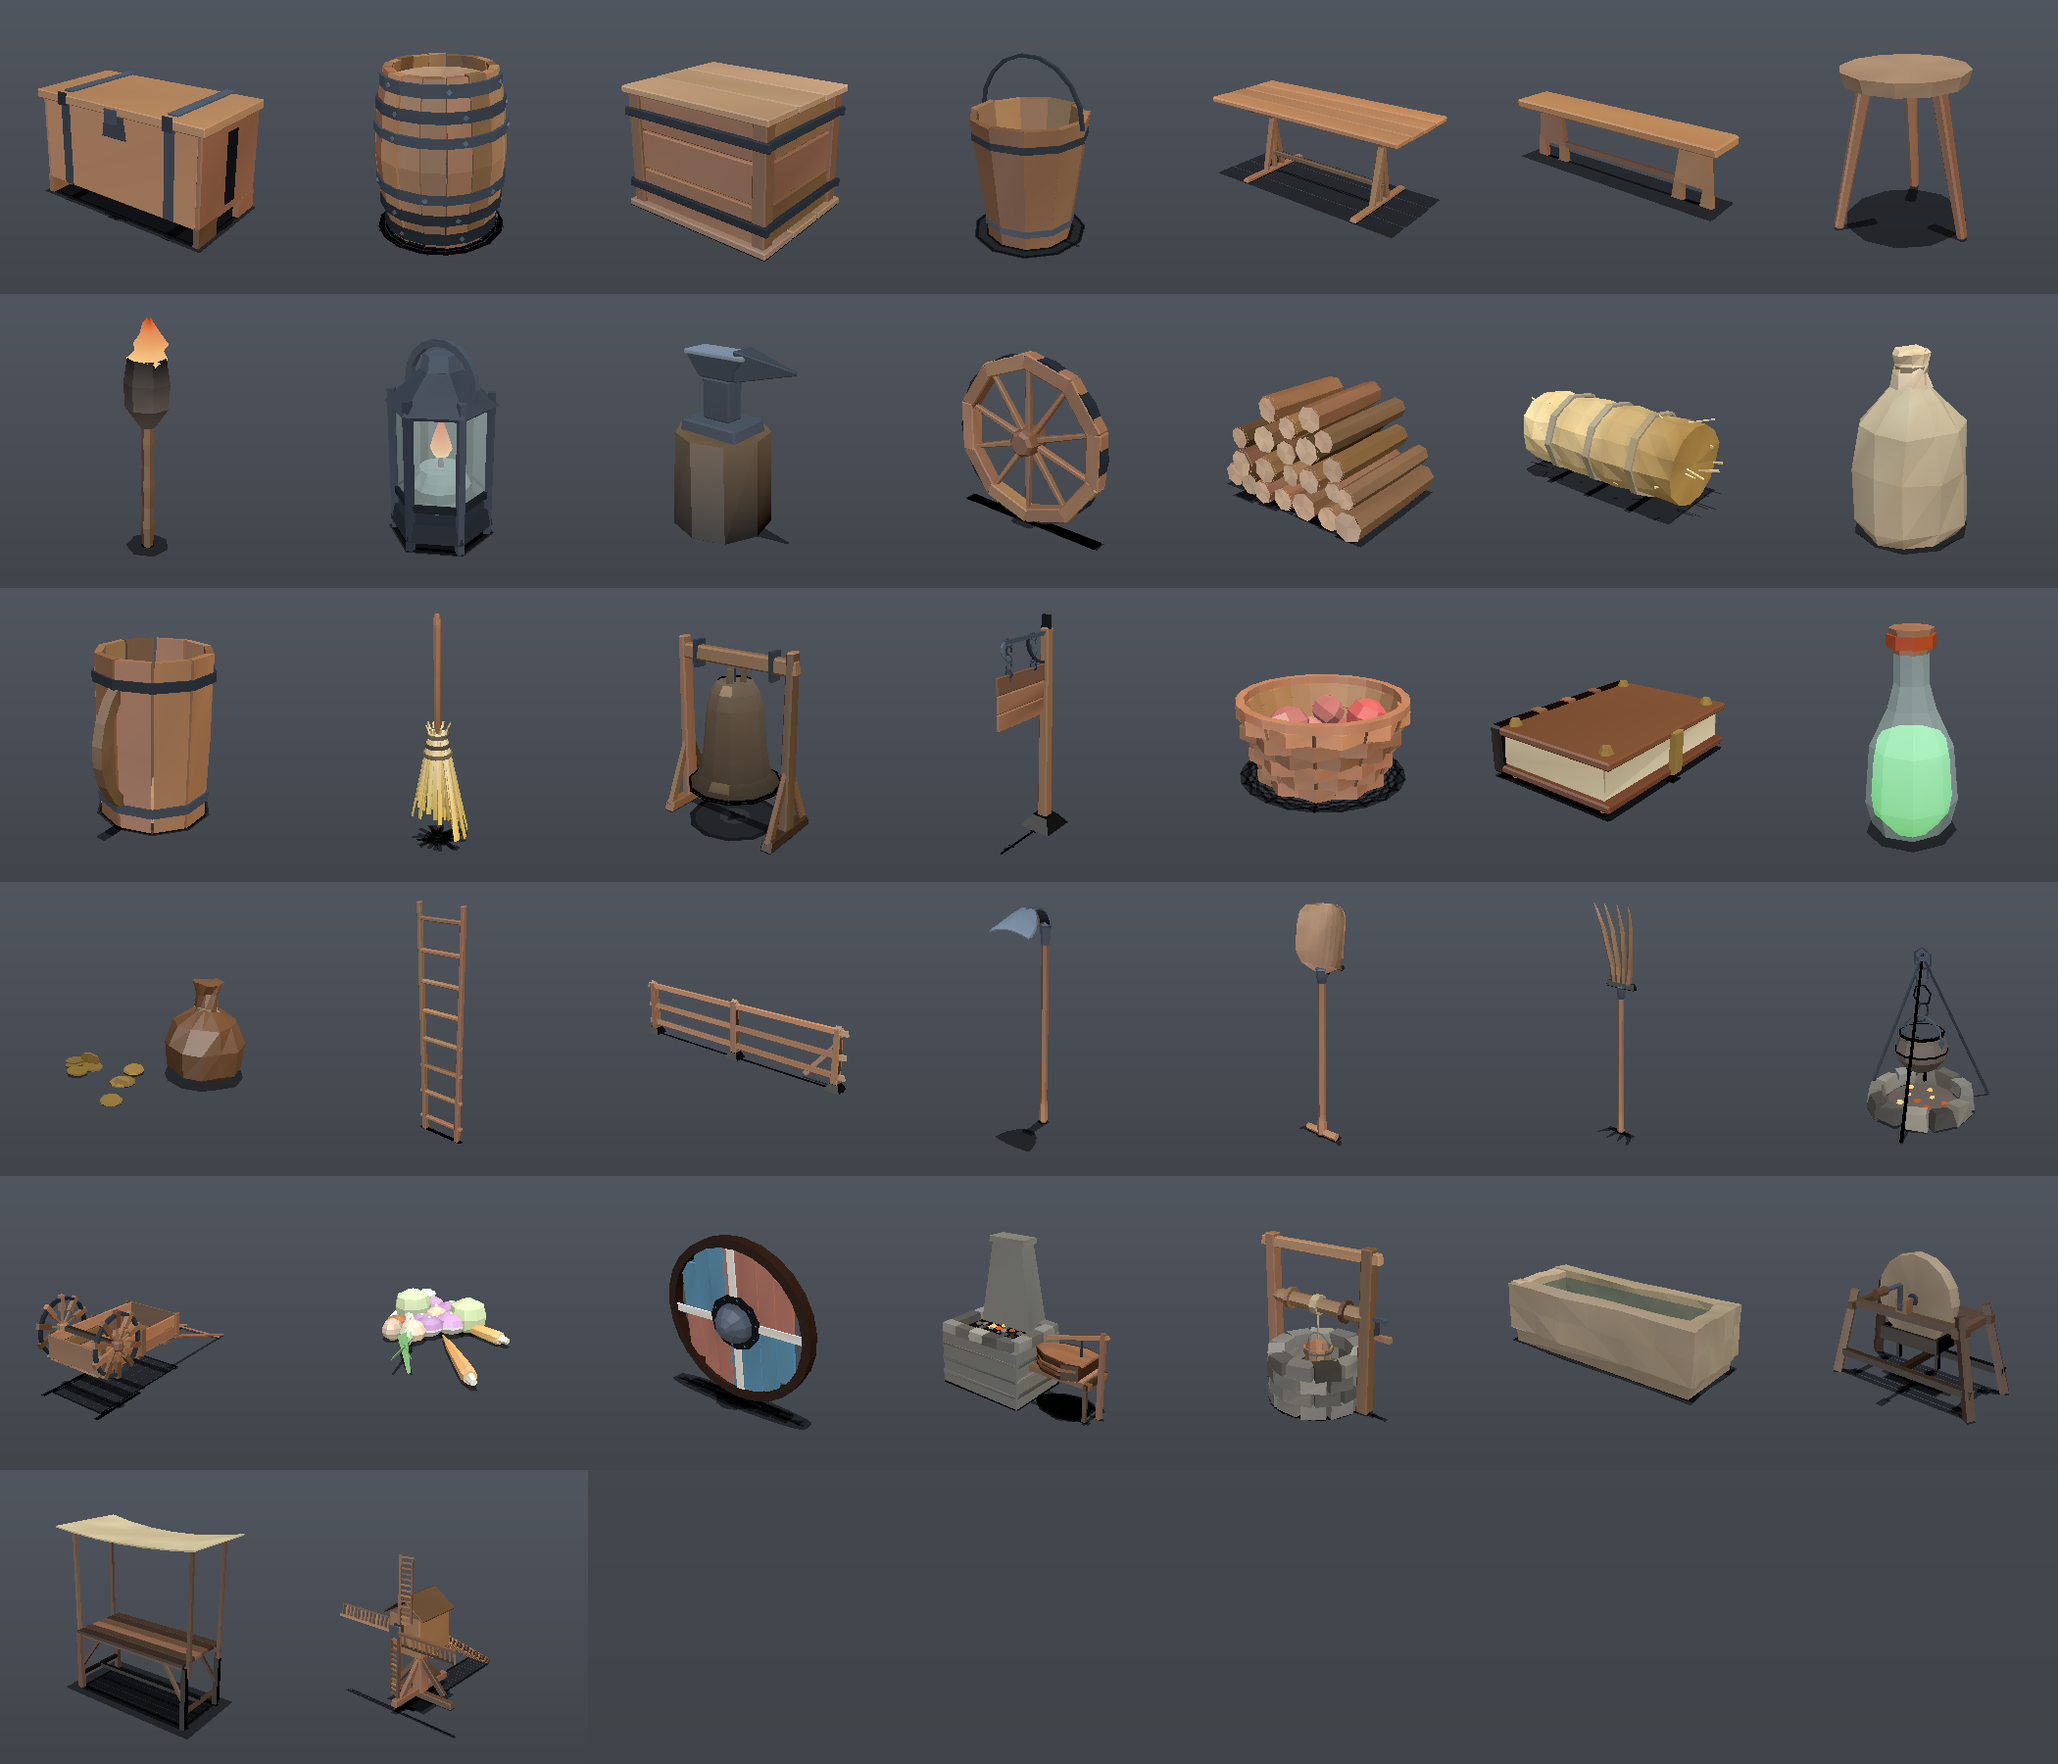
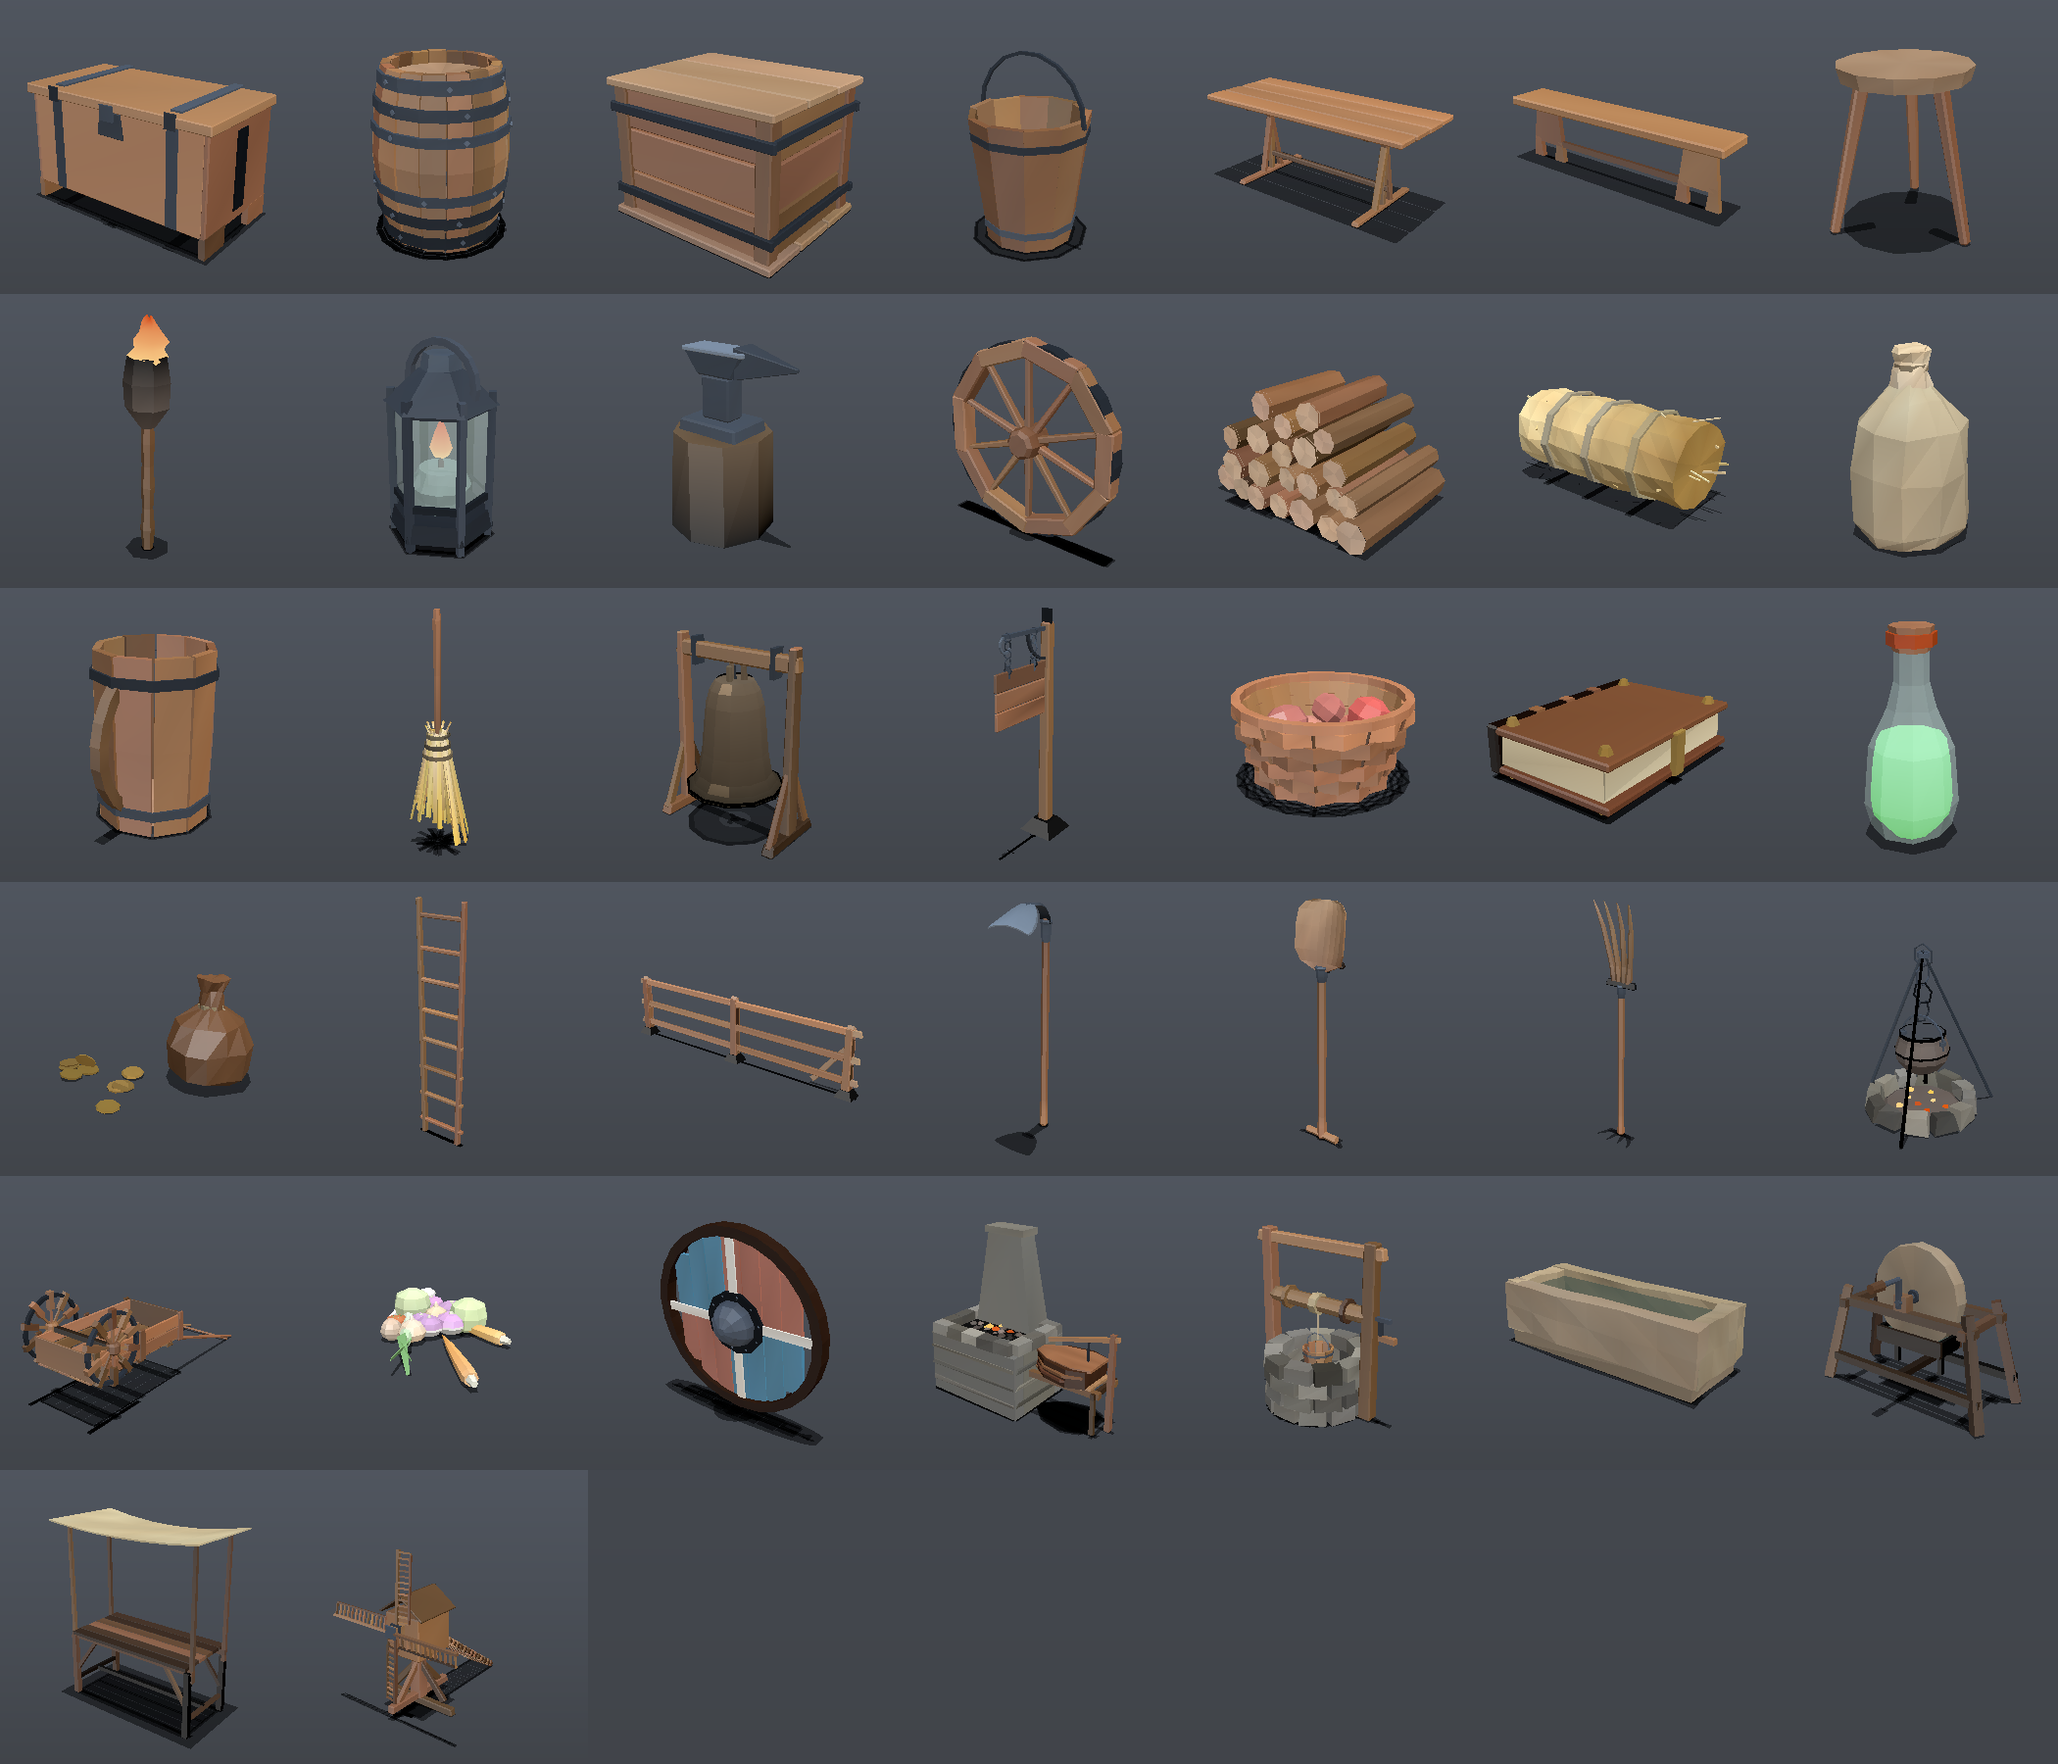
Give the published page a card
A link to the site showed a URL and a blank square. It now carries a title, a
description, a canonical URL, an icon and a full set of OpenGraph and Twitter
tags, so a page nobody has opened yet arrives as something you can look at.

Two of those tags have to be ABSOLUTE and it is not a style question: a
scraper fetching the page has no base to resolve `/cover.png` against and
drops it silently. `build-site.ts` now copies the images into the output as
well, because an `og:image` pointing at this host has to have the file ON this
host — a card that 404s shows nothing, and nothing about the page itself looks
wrong while it happens.

The cover is a real 1200x630 render rather than a crop of a square one, which
took a change to the renderer worth having anyway. `newFrame` and
`frameCamera` both took a width and a height already; only `renderOne` was
insisting they be equal. And with a non-square frame the old camera fit showed
its flaw: it fitted the bounding SPHERE, which is one number and wrong for
anything not roughly round. The kit scene is wide and flat, so its sphere is
far taller than the scene is, and fitting that into the vertical field left the
models in a band across the middle with empty air above and below — most of a
1.91:1 card. It now fits the BOX, iteratively, because perspective is not
linear in distance: place the camera, project the eight corners, move by how
far the worst one lands past the edge. Two passes is inside a pixel.
[…]

diff --git a/scripts/render.ts b/scripts/render.ts
@@ -340,13 +340,51 @@ function frameCamera(root: Object3D, width: number, height: number): { camera: P
   const box = new Box3().setFromObject(root)
   const sphere = box.getBoundingSphere(new Sphere())
   const camera = new PerspectiveCamera(32, width / height, 0.01, 100)
-  const distance = (sphere.radius / Math.sin((camera.fov * Math.PI) / 360)) * 1.12
   // Three-quarter view: the one angle that shows two faces at once. Looking
   // straight on hides depth completely.
   const direction = new Vector3(0.78, 0.5, 1).normalize()
+
+  /**
+   * Fit the BOX to the frame, not the sphere to the frame's short side.
+   *
+   * A sphere fit is one number and it is wrong for anything that is not
+   * roughly round. The whole-kit scene is wide and flat: its bounding sphere
+   * is set by the horizontal extent and is far taller than the scene is, so
+   * fitting that sphere into the vertical field left the models occupying a
+   * band across the middle with empty air above and below. On a 1.91:1 social
+   * card it was most of the picture.
+   *
+   * The box fit is iterative because perspective is not linear in distance:
+   * put the camera somewhere, project the eight corners, see how far past the
+   * frame edge the worst one lands, and move by that ratio. Two passes is
+   * inside a pixel at these sizes, and it settles on whichever axis is
+   * actually tight rather than assuming it is the vertical one.
+   */
+  let distance = (sphere.radius / Math.sin((camera.fov * Math.PI) / 360)) * 1.12
+  const corner = new Vector3()
+  for (let pass = 0; pass < 3; pass += 1) {
+    camera.position.copy(sphere.center).addScaledVector(direction, distance)
+    camera.lookAt(sphere.center)
+    camera.updateMatrixWorld(true)
+    camera.updateProjectionMatrix()
+    let worst = 0
+    for (let i = 0; i < 8; i += 1) {
+      corner.set(
+        i & 1 ? box.max.x : box.min.x,
+        i & 2 ? box.max.y : box.min.y,
+        i & 4 ? box.max.z : box.min.z,
+      ).project(camera)
+      worst = Math.max(worst, Math.abs(corner.x), Math.abs(corner.y))
+    }
+    if (worst <= 0) break
+    // 0.9 of the frame, so nothing sits on the edge and a shadow has room.
+    distance *= worst / 0.9
+  }
+
   camera.position.copy(sphere.center).addScaledVector(direction, distance)
   camera.lookAt(sphere.center)
   camera.updateMatrixWorld(true)
+  camera.updateProjectionMatrix()
   return { camera, floor: box.min.y }
 }
 
@@ -356,6 +394,15 @@ function renderOne(
   patch?: Record<string, number>,
   /** Pre-rotation of the model around the Y axis (radians). For turntables. */
   spin = 0,
+  /**
+   * Frame height, when it is not the width.
+   *
+   * Everything here is square because a contact sheet is a grid, but a social
+   * card is 1.91:1 and cropping a square down to it either loses the model or
+   * leaves it small. `newFrame` and `frameCamera` both took a width and a
+   * height already; only this function was insisting they be the same.
+   */
+  tall = size,
 ): Frame {
   const entry = CATALOG[id]
   if (!entry) throw new Error(`not in catalog: ${id}`)
@@ -368,8 +415,8 @@ function renderOne(
   // stay in a fixed direction, so turntable frames compare one to one.
   built.root.rotation.y = spin
   const triangles = collect(built.root)
-  const frame = newFrame(size, size)
-  const { camera, floor } = frameCamera(built.root, size, size)
+  const frame = newFrame(size, tall)
+  const { camera, floor } = frameCamera(built.root, size, tall)
   contactShadow(frame, camera, triangles, floor)
   raster(frame, camera, triangles)
   built.dispose()
@@ -387,6 +434,7 @@ const flag = (name: string): string | undefined => {
 const outDir = flag('out') ?? 'renders'
 const one = flag('one')
 const size = Number(flag('size') ?? (one ? 720 : 300))
+const tall = Number(flag('height') ?? size)
 
 const only = flag('ids')?.split(',')
 
@@ -453,7 +501,7 @@ const ids = one ? [one]
 const frames = new Map<string, Frame>()
 
 for (const id of ids) {
-  const frame = renderOne(id, size)
+  const frame = renderOne(id, size, undefined, 0, tall)
   frames.set(id, frame)
   await writeFile(`${outDir}/${id}.png`, encodePng(frame))
   console.log(`  ${id}`)

diff --git a/viewer.html b/viewer.html
@@ -3,7 +3,51 @@
   <head>
     <meta charset="UTF-8" />
     <meta name="viewport" content="width=device-width, initial-scale=1.0" />
-    <title>@medieval-kit · procedural model viewer</title>
+    <title>@medieval-kit · procedural lowpoly medieval models</title>
+    <meta
+      name="description"
+      content="37 lowpoly medieval models generated from TypeScript you install and own — barrels, tools, a forge, a windmill. 30,390 triangles for the whole kit."
+    />
+    <link rel="canonical" href="https://medieval.crt.fyi/" />
+    <link rel="icon" type="image/png" href="/icon.png" />
+    <meta name="theme-color" content="#0b0e12" />
+
+    <!--
+      The card. Every one of these is here because something reads it and shows
+      the page to somebody who has not opened it yet, and the default without
+      them is the URL and a blank square.
+
+      The image is ABSOLUTE, which is not a style choice: a scraper fetching
+      this page has no base to resolve "/cover.png" against and will drop it.
+      Same for the URL. And `og:image` is a real 1200x630 render of the whole
+      kit rather than a crop of a square one — the renderer will produce any
+      aspect now, and a card is 1.91:1, so a square image loses either the
+      windmill off the top or the props off the bottom.
+    -->
+    <meta property="og:type" content="website" />
+    <meta property="og:site_name" content="medieval-kit" />
+    <meta property="og:url" content="https://medieval.crt.fyi/" />
+    <meta property="og:title" content="@medieval-kit · procedural lowpoly medieval models" />
+    <meta
+      property="og:description"
+      content="37 lowpoly medieval models generated from TypeScript you install and own — barrels, tools, a forge, a windmill. 30,390 triangles for the whole kit."
+    />
+    <meta property="og:image" content="https://medieval.crt.fyi/cover.png" />
+    <meta property="og:image:type" content="image/png" />
+    <meta property="og:image:width" content="1200" />
+    <meta property="og:image:height" content="630" />
+    <meta
+      property="og:image:alt"
+      content="37 lowpoly medieval models arranged in one scene: a windmill and an oak-framed market stall behind, a forge, a grindstone and a cart wheel in the middle, barrels, crates and hand tools at the front."
+    />
+
+    <meta name="twitter:card" content="summary_large_image" />
+    <meta name="twitter:title" content="@medieval-kit · procedural lowpoly medieval models" />
+    <meta
+      name="twitter:description"
+      content="37 lowpoly medieval models generated from TypeScript you install and own. Open the viewer and turn any of them over."
+    />
+    <meta name="twitter:image" content="https://medieval.crt.fyi/cover.png" />
     <link rel="preconnect" href="https://fonts.googleapis.com" />
     <link rel="preconnect" href="https://fonts.gstatic.com" crossorigin />
     <link

diff --git a/scripts/check-docs.ts b/scripts/check-docs.ts
@@ -64,7 +64,21 @@ const WORDS = [
   'seventeen', 'eighteen', 'nineteen', 'twenty',
 ]
 
-for (const file of ['README.md', 'REFERENCE.md', 'my-registry/README.md']) {
+/**
+ * `viewer.html` is in this list because it is the published page.
+ *
+ * Its meta description is what a search result and a shared link show, and it
+ * quotes the model count and the triangle total — which is the same sentence
+ * that went stale three times in the READMEs before this check existed. A
+ * number in a card is worse than a number in a README: nobody reading the card
+ * can see the kit to know it is wrong.
+ *
+ * It carries no table, so the every-model-listed rule does not apply to it,
+ * any more than it does to the root README.
+ */
+const CARRIES_A_TABLE = new Set(['REFERENCE.md', 'my-registry/README.md'])
+
+for (const file of ['README.md', 'REFERENCE.md', 'my-registry/README.md', 'viewer.html']) {
   const text = readFileSync(file, 'utf8')
   console.log(file)
 
@@ -74,7 +88,7 @@ for (const file of ['README.md', 'REFERENCE.md', 'my-registry/README.md']) {
   // Every model has to appear by id, or the document is describing a smaller
   // kit than the one it ships with. The registry README and the reference each
   // carry a generated table; the root README does not, so it is exempt.
-  if (file !== 'README.md') {
+  if (CARRIES_A_TABLE.has(file)) {
     const missing = ids.filter((id) => !text.includes(`\`${id}\``))
     expect(`${file}: every model listed`, missing.length === 0, missing.join(', '))
   }

diff --git a/scripts/build-site.ts b/scripts/build-site.ts
@@ -41,6 +41,19 @@ await writeFile(`${dist}/_headers`, `/viewer-*
   Cache-Control: public, max-age=0, must-revalidate
 `, 'utf8')
 
+/**
+ * The images the page's own meta tags point at.
+ *
+ * `og:image` is an absolute URL to this host, so the file has to BE on this
+ * host: a card that 404s is a card that shows nothing, and nothing about the
+ * page itself would look wrong. `kit.png` and `models.png` come too, because
+ * the published README links to them and a reader of that page should not
+ * depend on a private repository being readable.
+ */
+for (const image of ['cover.png', 'icon.png', 'kit.png', 'models.png']) {
+  await copyFile(`media/${image}`, `${dist}/${image}`)
+}
+
 // Listed rather than named. The bundles are hashed, so writing `viewer.js`
 // here would be a lie the moment the bytes change — which is the same mistake
 // this script's own first version made, in this very line.

diff --git a/my-registry/README.md b/my-registry/README.md
@@ -4,9 +4,9 @@ A lowpoly medieval model library for [Vibe3D](https://github.com/vibe-stack/vibe
 and Three.js. Install a prop and you own its source: readable TypeScript in your
 own tree, not an opaque package boundary.
 
-![The whole kit in one scene](https://raw.githubusercontent.com/CRTkafa/medieval-kit/main/media/kit.png)
+![The whole kit in one scene](https://medieval.crt.fyi/kit.png)
 
-![Every model](https://raw.githubusercontent.com/CRTkafa/medieval-kit/main/media/models.png)
+![Every model](https://medieval.crt.fyi/models.png)
 
 ```sh
 bunx vibe3d add @medieval-kit/wooden-barrel
